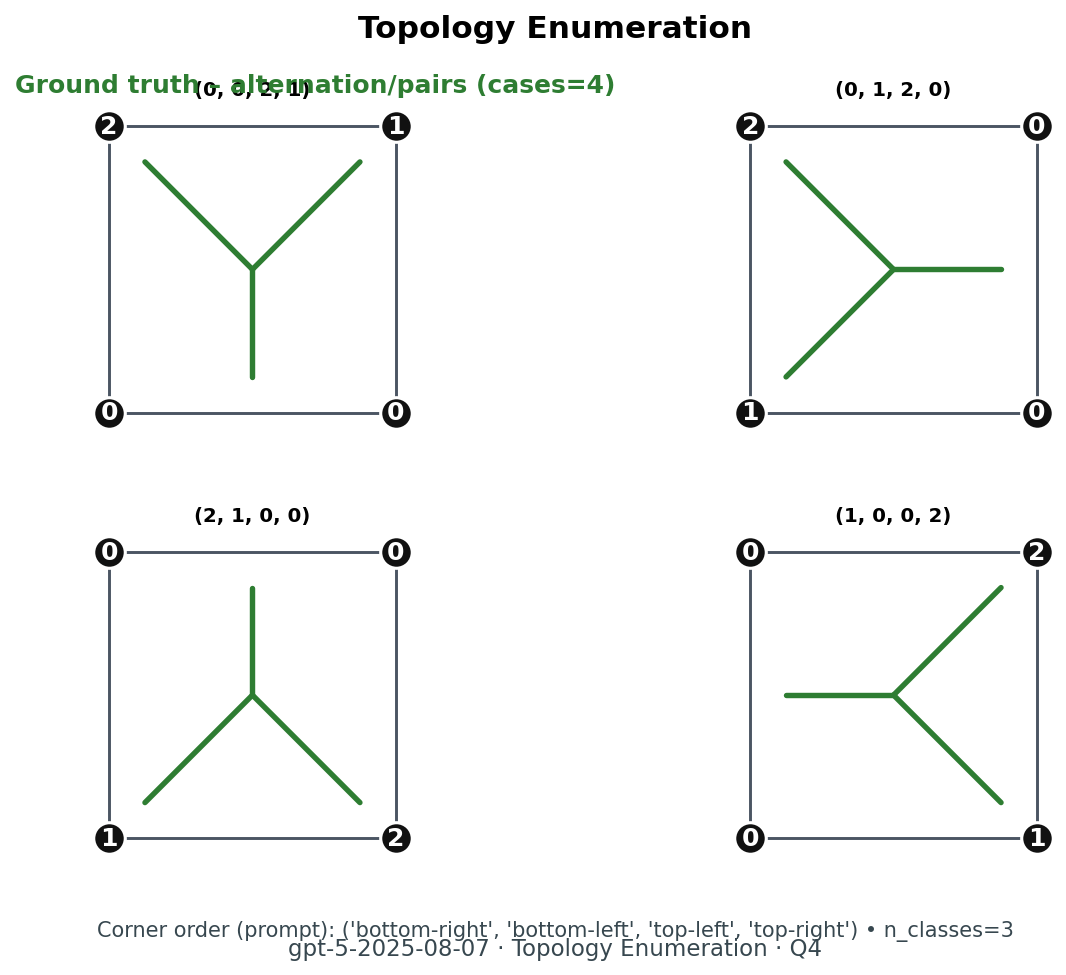
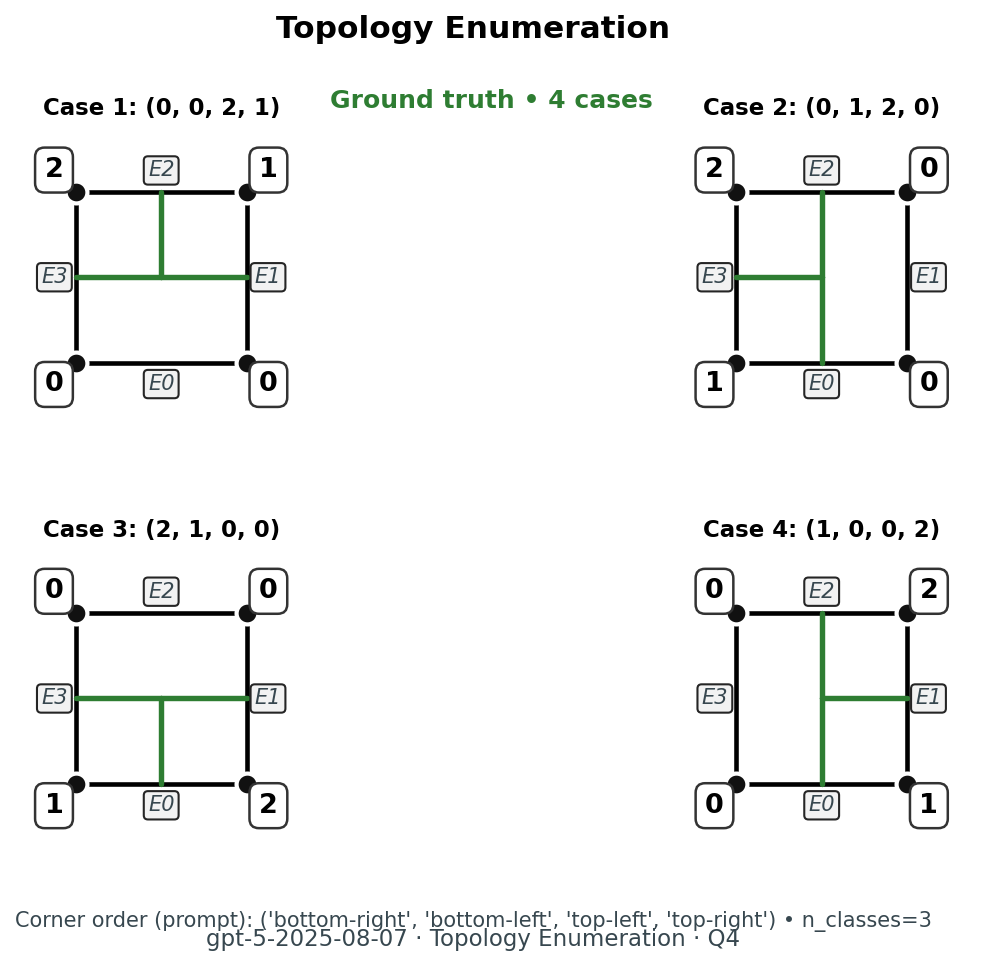
Show all topology enumeration cases and refresh runs

diff --git a/visualisations/topology_enumeration.py b/visualisations/topology_enumeration.py
@@ -2,69 +2,32 @@
 
 from __future__ import annotations
 
-import ast
 import math
 from collections import Counter
 from typing import Any, Mapping, Sequence
 
 import matplotlib.pyplot as plt
 
-from visual_geometry_bench.datagen.topology_enumeration import (
-    canonicalize,
-    get_solutions,
-)
 from visual_geometry_bench.datagen.utils import (
     CANONICAL_CORNER_ORDER,
     corner_order_permutation,
 )
 
-from .render import get_answer_label, register_renderer
+from .render import register_renderer
 from .styles import COLOURS
+from .topology_common import (
+    _DEFAULT_CORNER_ORDER,
+    _DEFAULT_EDGE_ORDER,
+    _draw_square_with_labels,
+)
 
-CORNER_COORDS = {
-    "bottom-left": (0.1, 0.1),
-    "bottom-right": (0.9, 0.1),
-    "top-right": (0.9, 0.9),
-    "top-left": (0.1, 0.9),
-}
 CENTER_POINT = (0.5, 0.5)
-
-
-def _parse_topology_answer(answer: Any) -> tuple[list[tuple[int, int, int, int]] | None, list[str]]:
-    errors: list[str] = []
-
-    if isinstance(answer, str):
-        try:
-            raw = ast.literal_eval(answer)
-        except (ValueError, SyntaxError):
-            errors.append("Parse failure: could not evaluate string answer.")
-            return None, errors
-    elif isinstance(answer, Sequence) and not isinstance(answer, (str, bytes)):
-        raw = list(answer)
-    else:
-        errors.append(f"Unsupported answer type: {type(answer).__name__}")
-        return None, errors
-
-    if not isinstance(raw, Sequence) or isinstance(raw, (str, bytes)):
-        errors.append("Answer is not an iterable of tuples.")
-        return None, errors
-
-    tuples: list[tuple[int, int, int, int]] = []
-    for idx, item in enumerate(raw):
-        if not isinstance(item, (list, tuple)):
-            errors.append(f"Entry {idx} is not a tuple/list: {item!r}")
-            return None, errors
-        if len(item) != 4:
-            errors.append(f"Entry {idx} has length {len(item)} (expected 4).")
-            return None, errors
-        try:
-            coerced = tuple(int(x) for x in item)
-        except (TypeError, ValueError):
-            errors.append(f"Entry {idx} contains non-integer values: {item!r}")
-            return None, errors
-        tuples.append(coerced)
-
-    return tuples, errors
+EDGE_MIDPOINTS = [
+    (0.5, 0.0),  # bottom
+    (1.0, 0.5),  # right
+    (0.5, 1.0),  # top
+    (0.0, 0.5),  # left
+]
 
 
 def _canonical_tuple(labels: Sequence[int], corner_order: Sequence[str]) -> tuple[int, int, int, int]:
@@ -77,54 +40,35 @@ def _segments_two_classes(canonical_labels: Sequence[int]) -> list[list[tuple[fl
     if len(counts) != 2:
         return []
 
-    # Single odd corner: connect odd corner -> center -> midpoint of opposite edge
-    if 3 in counts.values():
-        odd_label = next(label for label, count in counts.items() if count == 1)
-        odd_idx = canonical_labels.index(odd_label)
-        odd_corner = CANONICAL_CORNER_ORDER[odd_idx]
-        odd_point = CORNER_COORDS[odd_corner]
+    # Determine which edges have differing labels (marching squares)
+    diff_edges: list[int] = []
+    for edge_idx in range(4):
+        a = canonical_labels[edge_idx]
+        b = canonical_labels[(edge_idx + 1) % 4]
+        if a != b:
+            diff_edges.append(edge_idx)
 
-        opposite_edge = {
-            "bottom-left": ((CORNER_COORDS["top-left"][0] + CORNER_COORDS["top-right"][0]) / 2.0, 0.9),
-            "bottom-right": (0.1, (CORNER_COORDS["top-right"][1] + CORNER_COORDS["bottom-right"][1]) / 2.0),
-            "top-right": ((CORNER_COORDS["bottom-left"][0] + CORNER_COORDS["bottom-right"][0]) / 2.0, 0.1),
-            "top-left": (0.9, (CORNER_COORDS["top-left"][1] + CORNER_COORDS["bottom-right"][1]) / 2.0),
-        }[odd_corner]
-        return [[odd_point, CENTER_POINT, opposite_edge]]
-
-    # Adjacent same-class pairs
-    if canonical_labels[0] == canonical_labels[1] and canonical_labels[2] == canonical_labels[3]:
-        return [[(0.5, 0.15), (0.5, 0.85)]]
-    if canonical_labels[0] == canonical_labels[3] and canonical_labels[1] == canonical_labels[2]:
-        return [[(0.15, 0.5), (0.85, 0.5)]]
-
-    # Alternating pattern forces diagonal crossing
-    if canonical_labels[0] == canonical_labels[2] and canonical_labels[1] == canonical_labels[3]:
-        return [[CORNER_COORDS["bottom-left"], CENTER_POINT, CORNER_COORDS["top-right"]]]
-    if canonical_labels[1] == canonical_labels[3] and canonical_labels[0] == canonical_labels[2]:
-        return [[CORNER_COORDS["bottom-right"], CENTER_POINT, CORNER_COORDS["top-left"]]]
-
+    if len(diff_edges) == 2:
+        return [[EDGE_MIDPOINTS[diff_edges[0]], EDGE_MIDPOINTS[diff_edges[1]]]]
+    if len(diff_edges) == 4:
+        return [
+            [EDGE_MIDPOINTS[diff_edges[0]], EDGE_MIDPOINTS[diff_edges[2]]],
+            [EDGE_MIDPOINTS[diff_edges[1]], EDGE_MIDPOINTS[diff_edges[3]]],
+        ]
     return []
 
 
 def _segments_three_classes(canonical_labels: Sequence[int]) -> list[list[tuple[float, float]]]:
-    anchors: dict[int, list[tuple[float, float]]] = {}
-    for idx, label in enumerate(canonical_labels):
-        corner = CANONICAL_CORNER_ORDER[idx]
-        anchors.setdefault(label, []).append(CORNER_COORDS[corner])
     segments: list[list[tuple[float, float]]] = []
-    for pts in anchors.values():
-        if not pts:
-            continue
-        target = (
-            sum(p[0] for p in pts) / len(pts),
-            sum(p[1] for p in pts) / len(pts),
-        )
-        lerp = (
-            CENTER_POINT[0] * 0.25 + target[0] * 0.75,
-            CENTER_POINT[1] * 0.25 + target[1] * 0.75,
-        )
-        segments.append([CENTER_POINT, lerp])
+    diff_edges = []
+    for edge_idx in range(4):
+        a = canonical_labels[edge_idx]
+        b = canonical_labels[(edge_idx + 1) % 4]
+        if a != b:
+            diff_edges.append(edge_idx)
+    for edge_idx in diff_edges:
+        mid = EDGE_MIDPOINTS[edge_idx]
+        segments.append([CENTER_POINT, mid])
     return segments
 
 
@@ -138,27 +82,13 @@ def _draw_configuration(
     linestyle: str,
     title: str,
 ) -> None:
-    ax.set_aspect("equal")
-    ax.set_xticks([])
-    ax.set_yticks([])
-    ax.set_facecolor("#FFFFFF")
-    ax.spines[:].set_visible(False)
-
-    ax.plot([0.1, 0.9, 0.9, 0.1, 0.1], [0.1, 0.1, 0.9, 0.9, 0.1], color="#4B5563", linewidth=1.4)
-
-    for corner, label in zip(corner_order, labels, strict=True):
-        x, y = CORNER_COORDS[corner]
-        ax.scatter(
-            x,
-            y,
-            s=230,
-            color=COLOURS["points"],
-            edgecolors="white",
-            linewidths=1.5,
-            zorder=3,
-        )
-        ax.text(x, y, str(label), color="white", weight="bold", fontsize=12, ha="center", va="center", zorder=4)
-
+    _draw_square_with_labels(
+        ax,
+        labels,
+        corner_order,
+        _DEFAULT_EDGE_ORDER,
+        title=title,
+    )
     canonical = _canonical_tuple(labels, corner_order)
     segments = (
         _segments_two_classes(canonical)
@@ -175,8 +105,8 @@ def _draw_configuration(
             linestyle=linestyle,
             solid_capstyle="round",
         )
-
-    ax.set_title(title, fontsize=9.5, pad=8)
+    ax.set_xlim(-0.35, 1.35)
+    ax.set_ylim(-0.35, 1.35)
 
 
 def _compute_layout(sections):
@@ -215,14 +145,13 @@ def _render_sections(
     for idx, ((label, items, colour, linestyle), (rows, cols)) in enumerate(zip(sections, layouts, strict=True)):
         if not items:
             continue
-        sub = gs_outer[idx].subgridspec(rows, cols, hspace=0.35, wspace=0.35)
-        first_ax = None
+        sub = gs_outer[idx].subgridspec(rows, cols, hspace=0.45, wspace=0.45)
+        section_axes: list[plt.Axes] = []
         for case_idx, labels in enumerate(items):
             row = case_idx // cols
             col = case_idx % cols
             ax = fig.add_subplot(sub[row, col])
-            if first_ax is None:
-                first_ax = ax
+            section_axes.append(ax)
             _draw_configuration(
                 ax,
                 labels,
@@ -230,49 +159,34 @@ def _render_sections(
                 n_classes,
                 colour=colour,
                 linestyle=linestyle,
-                title=str(tuple(labels)),
+                title=f"Case {case_idx + 1}: {tuple(labels)}",
             )
         total_slots = rows * cols
         for blank_idx in range(len(items), total_slots):
             row = blank_idx // cols
             col = blank_idx % cols
             fig.add_subplot(sub[row, col]).axis("off")
-        if first_ax:
-            bbox = first_ax.get_position(fig)
+        if section_axes:
+            bboxes = [ax.get_position(fig) for ax in section_axes]
+            x0 = min(bb.x0 for bb in bboxes)
+            x1 = max(bb.x1 for bb in bboxes)
+            y1 = max(bb.y1 for bb in bboxes)
             fig.text(
-                bbox.x0,
-                bbox.y1 + 0.015,
-                f"{label} (cases={len(items)})",
+                (x0 + x1) / 2,
+                y1 + 0.02,
+                f"{label} • {len(items)} cases",
                 color=colour,
                 weight="semibold",
                 fontsize=12,
-                ha="left",
+                ha="center",
                 va="bottom",
             )
 
 
-def _split_solution_classes(tuples: list[tuple[int, int, int, int]]) -> tuple[list[tuple[int, int, int, int]], list[tuple[int, int, int, int]]]:
-    odd_cases = []
-    other_cases = []
-    for tup in tuples:
-        counts = Counter(tup)
-        if 3 in counts.values():
-            odd_cases.append(tup)
-        else:
-            other_cases.append(tup)
-    return odd_cases, other_cases
-
-
-def _build_sections(gt_tuples, answer_tuples, record):
+def _build_sections(gt_tuples):
     sections: list[tuple[str, list[tuple[int, int, int, int]], str, str]] = []
     if gt_tuples:
-        odd, others = _split_solution_classes(gt_tuples)
-        if odd:
-            sections.append(("Ground truth – odd corner", odd, COLOURS["truth"], "-"))
-        if others:
-            sections.append(("Ground truth – alternation/pairs", others, COLOURS["truth"], "-"))
-    if answer_tuples:
-        sections.append((get_answer_label(record, default="Model answers"), answer_tuples, COLOURS["answer"], "--"))
+        sections.append(("Ground truth", gt_tuples, COLOURS["truth"], "-"))
     return [s for s in sections if s[1]]
 
 
@@ -284,14 +198,11 @@ def _render_topology_enumeration(
     show: bool | None = None,
 ) -> plt.Figure:
     datagen_args = record.get("datagen_args", {})
-    corner_order = tuple(datagen_args.get("corner_order", CANONICAL_CORNER_ORDER))
+    corner_order = tuple(datagen_args.get("corner_order", _DEFAULT_CORNER_ORDER))
     n_classes = int(datagen_args.get("n_classes", 2))
 
     gt_tuples = [tuple(int(x) for x in cfg) for cfg in record.get("ground_truth", [])]
-    parsed_answers, _ = _parse_topology_answer(answer) if answer is not None else (None, [])
-    answer_tuples = parsed_answers or []
-
-    sections = _build_sections(gt_tuples, answer_tuples, record)
+    sections = _build_sections(gt_tuples)
     if not sections:
         sections = [("Ground truth", gt_tuples or [], COLOURS["truth"], "-")]
 
@@ -300,7 +211,8 @@ def _render_topology_enumeration(
     max_cases = max((len(items) for _, items, _, _ in sections), default=1)
     fig_width = max(6.5, 3.2 * min(3, max_cases))
     fig = plt.figure(figsize=(fig_width, fig_height))
-    fig.suptitle("Topology Enumeration", fontsize=15, weight="bold")
+    fig.suptitle("Topology Enumeration", fontsize=15, weight="bold", y=0.97)
+    fig.subplots_adjust(top=0.85, bottom=0.12)
     fig.patch.set_facecolor("white")
 
     if sections and layouts:
